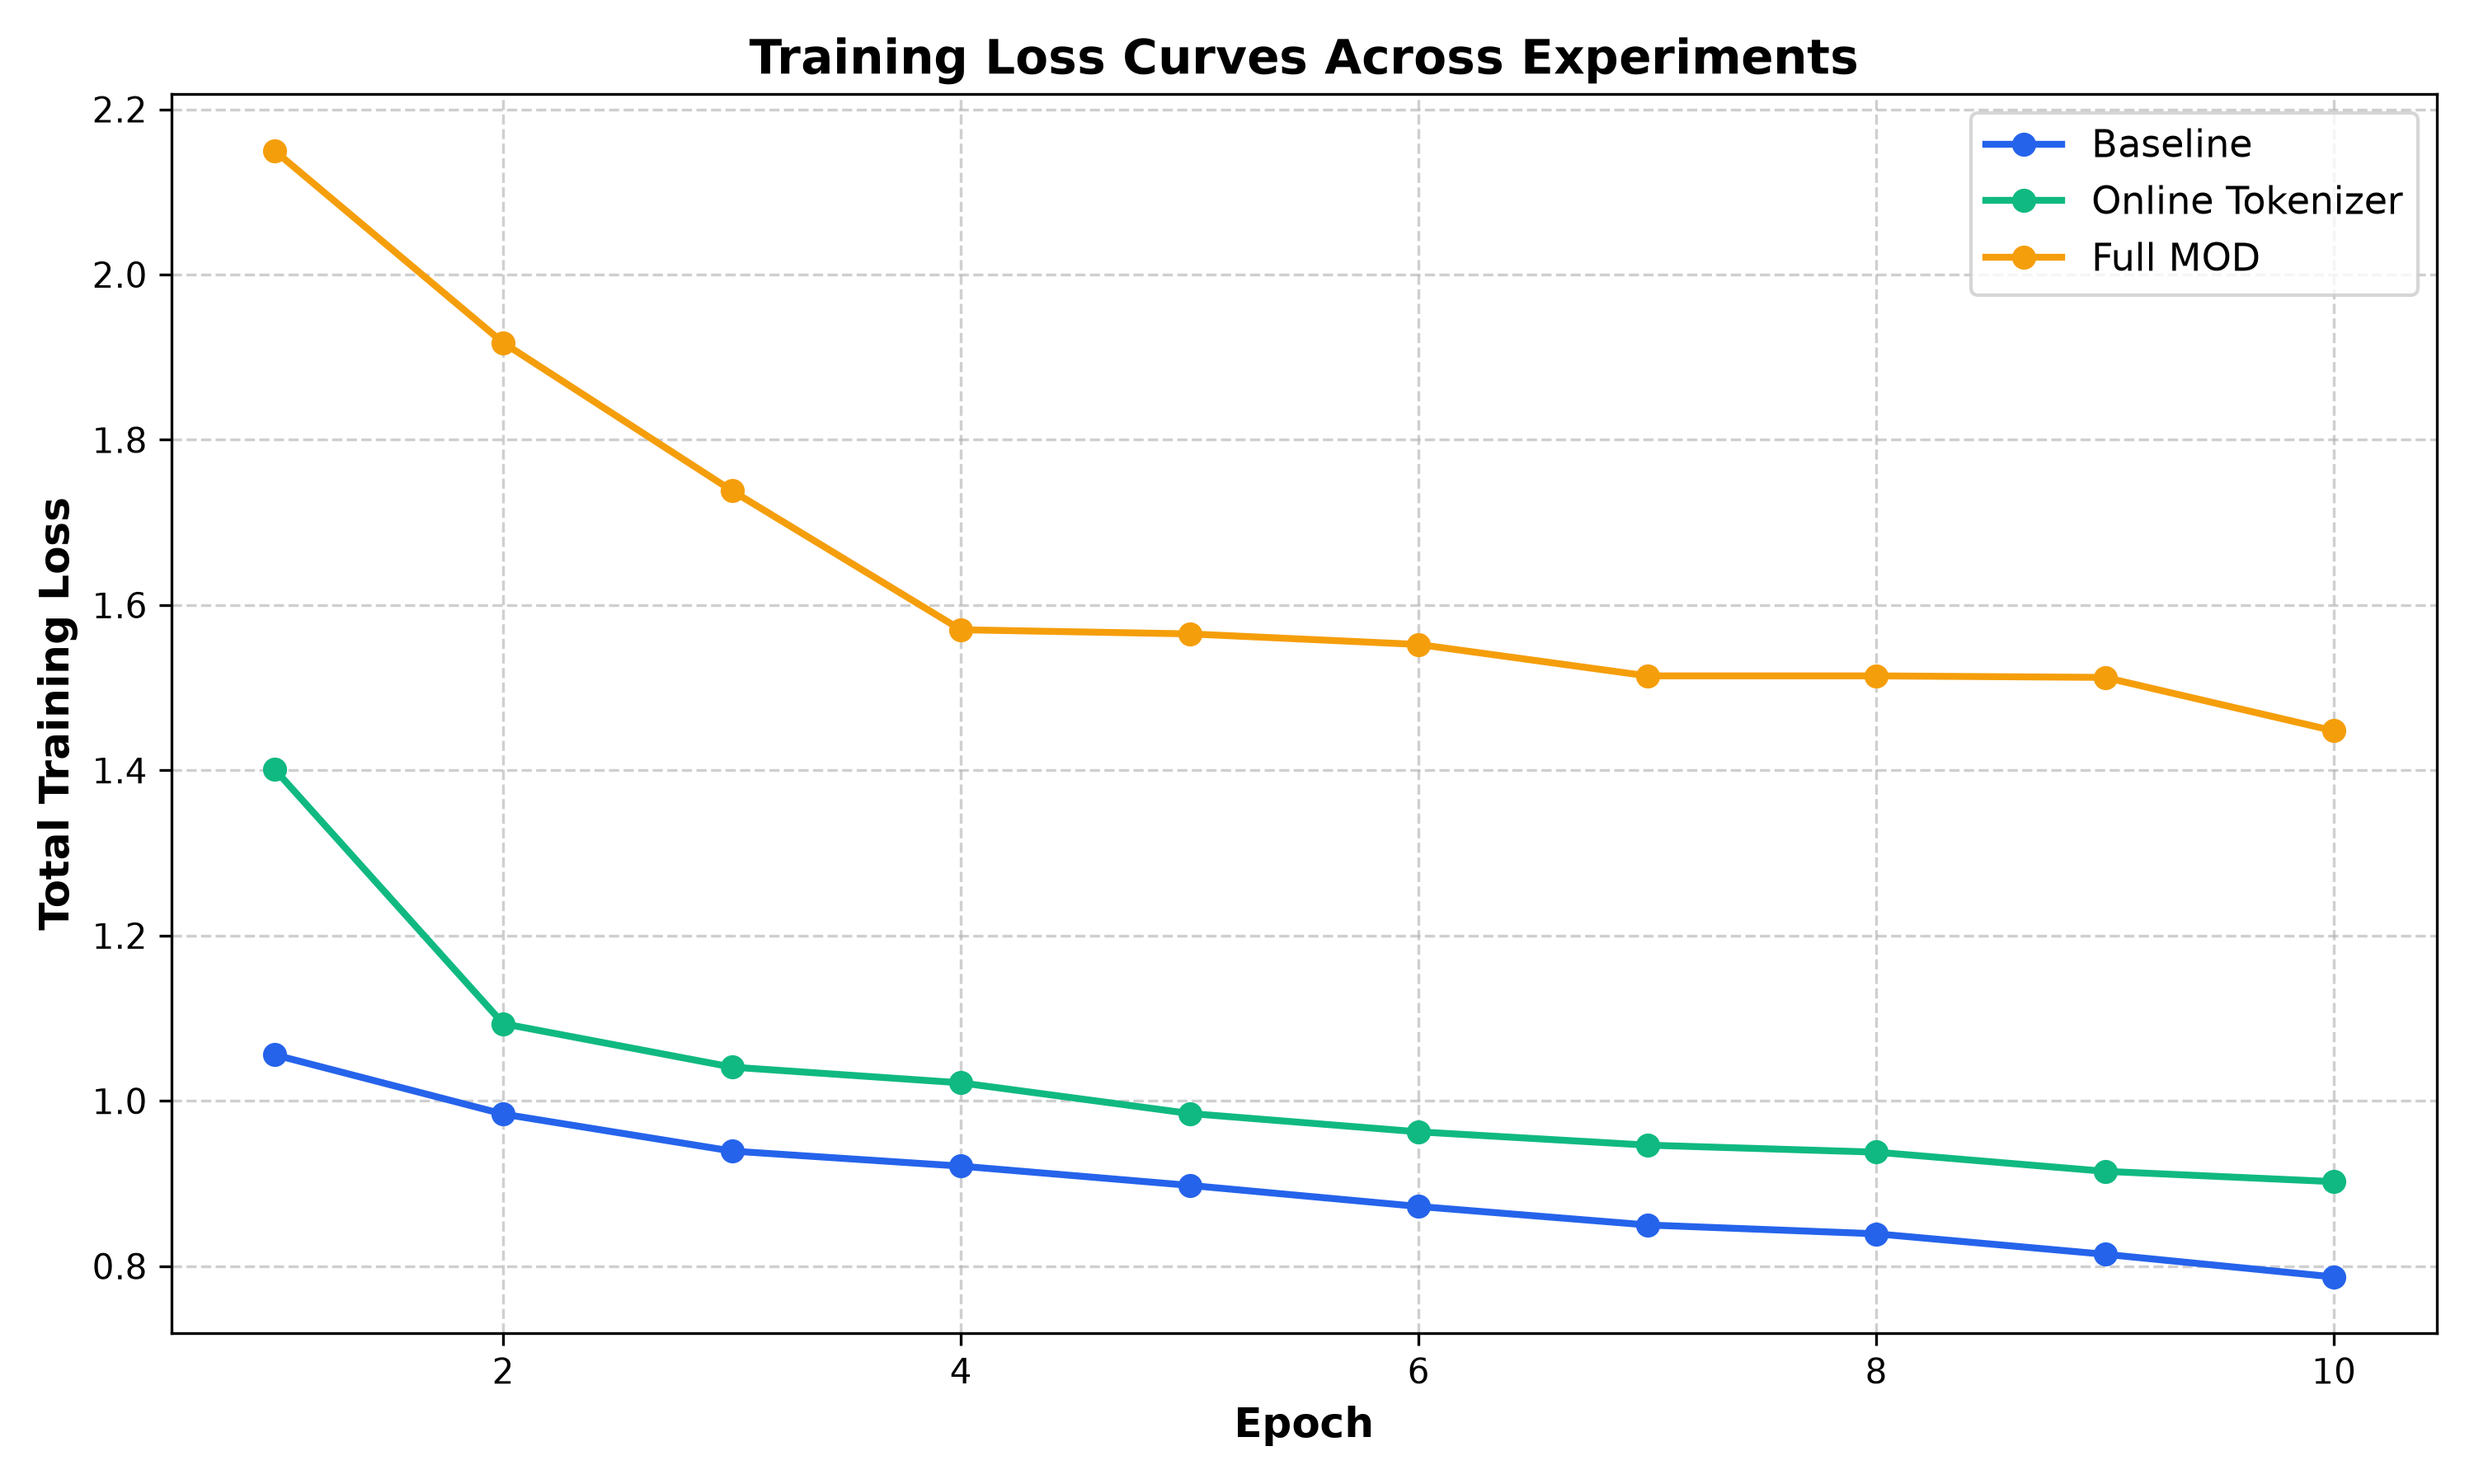
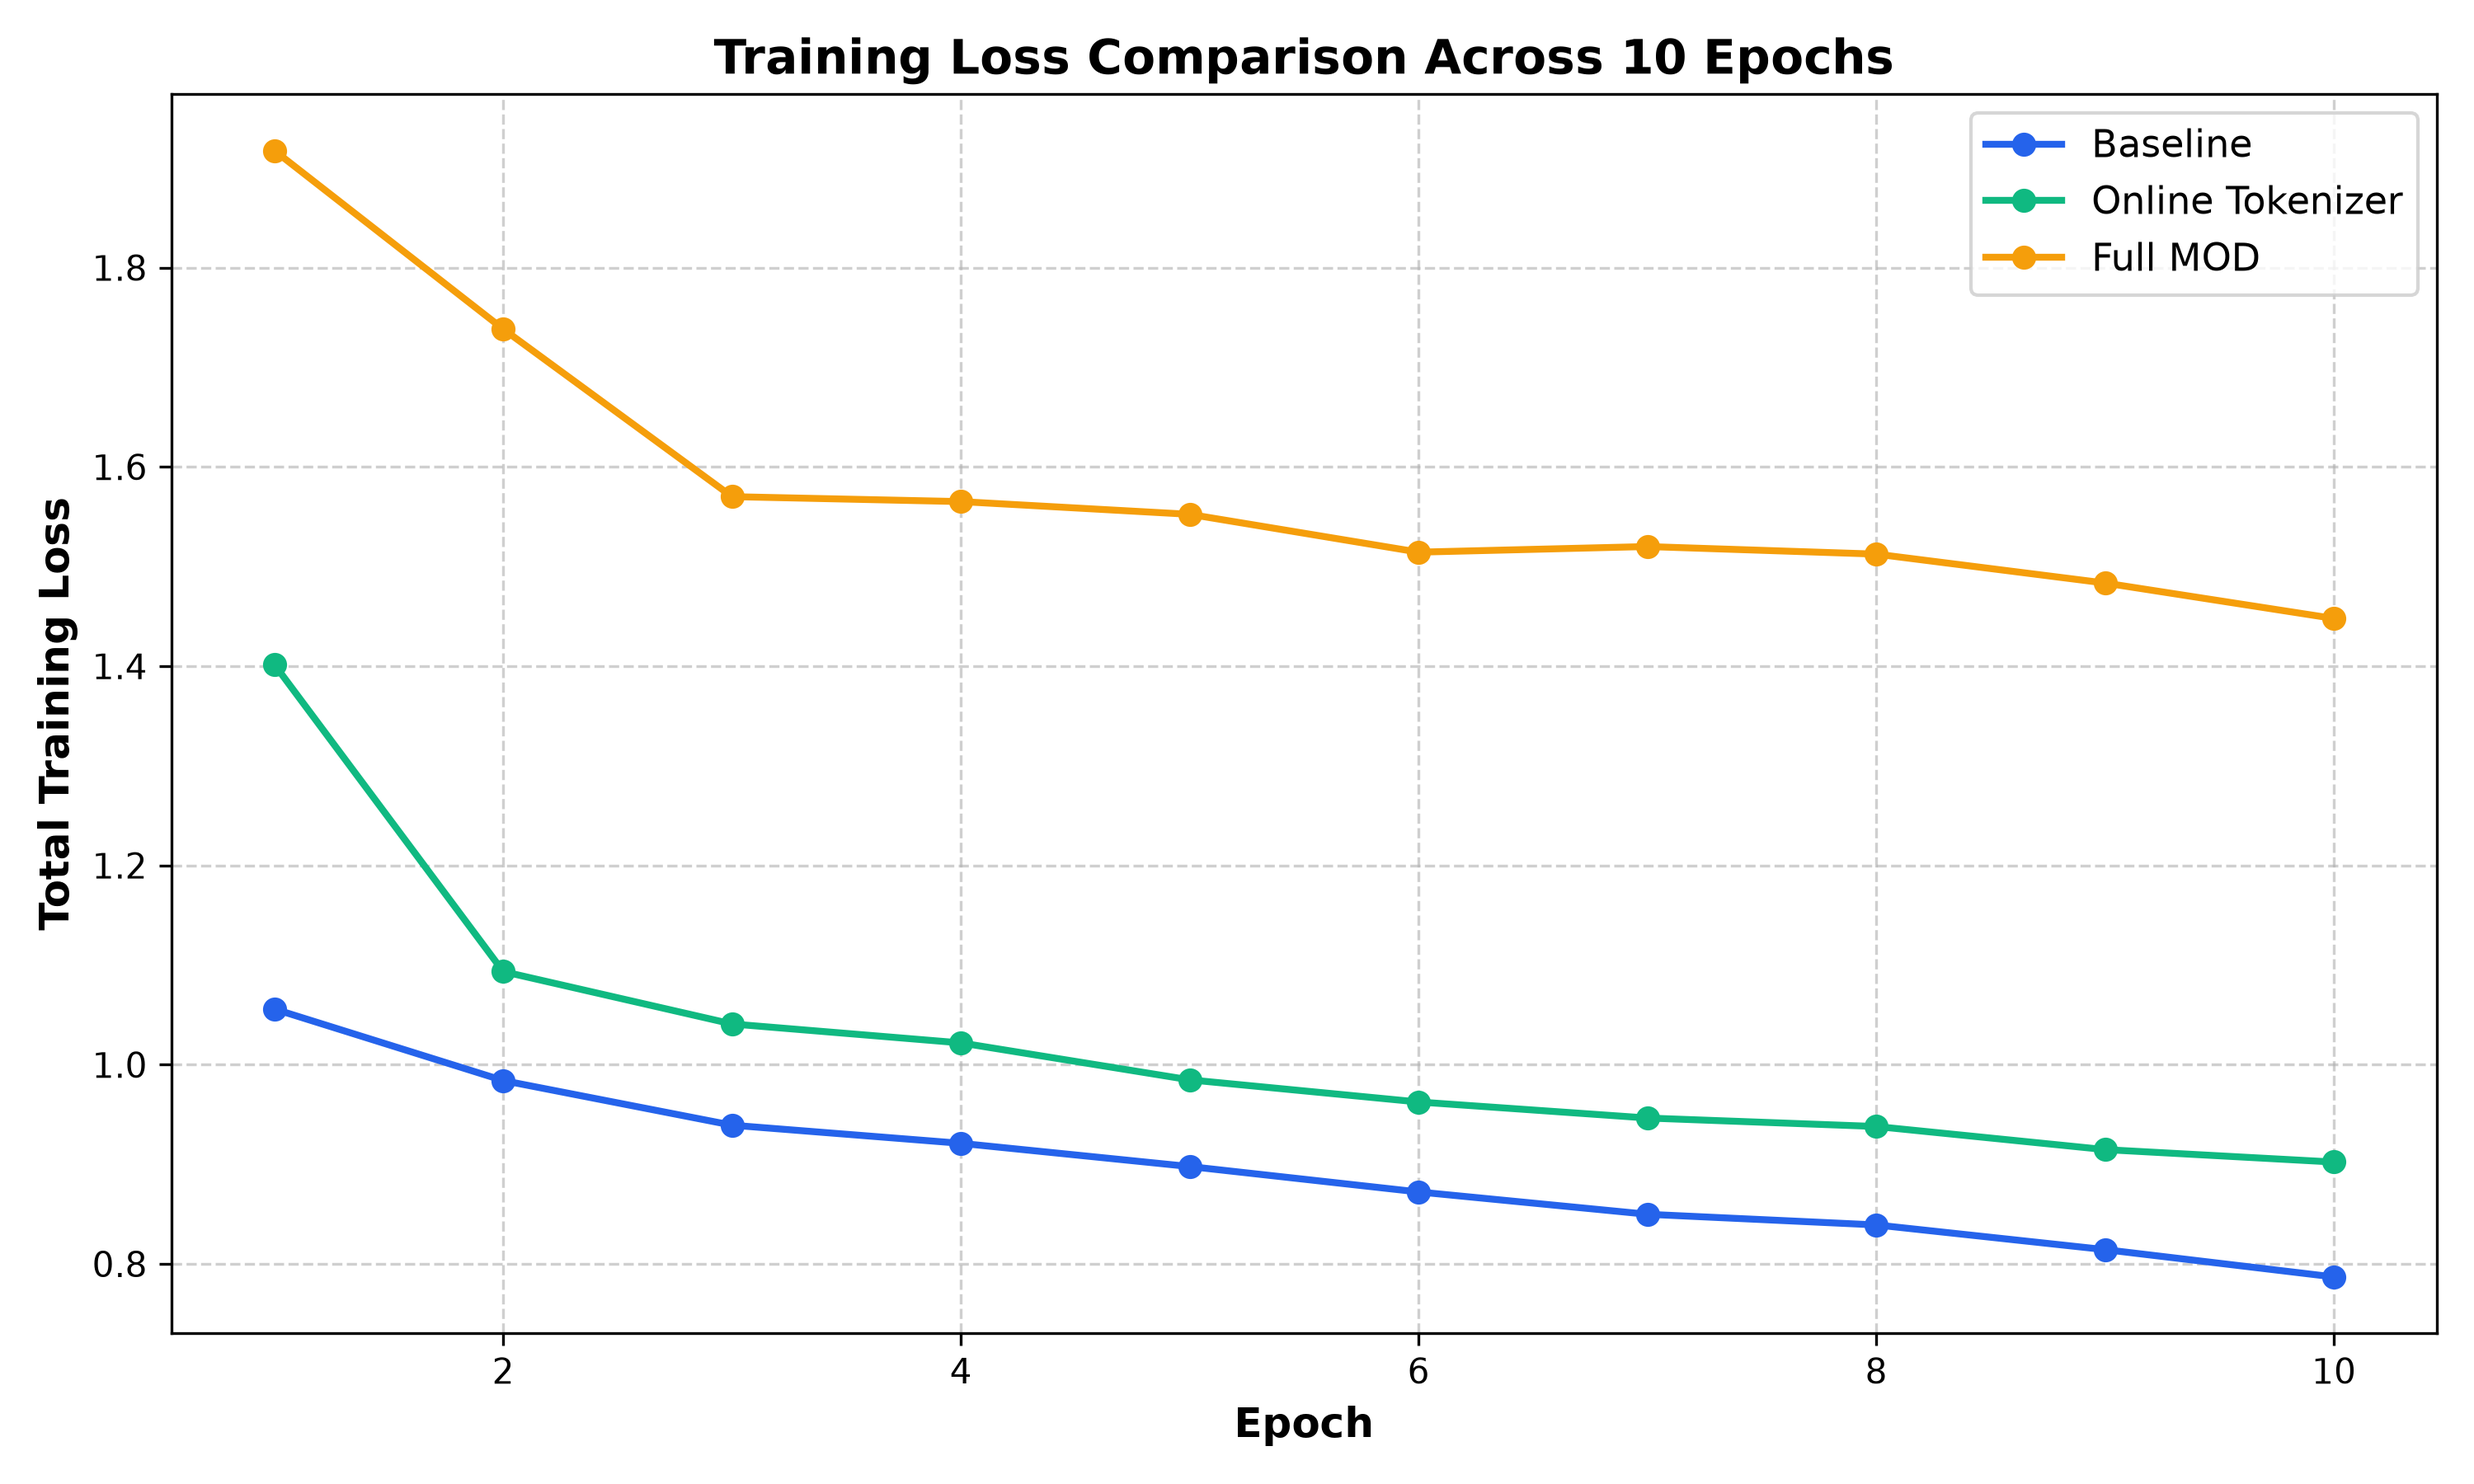
Correct MOD training history with exact experimental values and regenerate loss figures

diff --git a/src/visualization/plotter.py b/src/visualization/plotter.py
@@ -17,7 +17,7 @@ def plot_loss_curves(
     colors = {
         "Baseline": "#2563EB",
         "Online Tokenizer": "#10B981",
-        "Full MOD": "#F59E0B",
+        "Full MOD": "#DC2626",
         "Dense Predictor": "#8B5CF6",
     }
     
@@ -40,6 +40,38 @@ def plot_loss_curves(
     print(f"Saved: {out}")
 
 
+def plot_mod_loss_breakdown(
+    epochs: List[int],
+    total_loss: List[float],
+    seg_loss: List[float],
+    ot_loss: List[float],
+    dp_loss: List[float],
+    mod_loss: List[float],
+    output_path: Union[str, Path] = "results/figures/mod_loss_breakdown.png",
+):
+    """Plots fine-grained MOD loss components across epochs."""
+    plt.figure(figsize=(10, 6), dpi=300)
+    plt.plot(epochs, total_loss, marker='o', linewidth=2.5, color='#DC2626', label='Total Loss (Seg + MOD)')
+    plt.plot(epochs, seg_loss,   marker='s', linewidth=2.0, color='#2563EB', label='Segmentation Loss (DiceFocal)')
+    plt.plot(epochs, mod_loss,   marker='^', linewidth=2.0, color='#D97706', label='MOD Loss (OT + DP)')
+    plt.plot(epochs, dp_loss,    marker='d', linewidth=1.8, linestyle='--', color='#7C3AED', label='Dense Predictor Loss')
+    plt.plot(epochs, ot_loss,    marker='x', linewidth=1.8, linestyle=':', color='#059669', label='Online Tokenizer Loss')
+
+    plt.xlabel('Epoch', fontsize=12, fontweight='bold')
+    plt.ylabel('Loss Value', fontsize=12, fontweight='bold')
+    plt.title('MOD 10-Epoch Multi-Objective Loss Trajectory', fontsize=14, fontweight='bold')
+    plt.grid(True, linestyle='--', alpha=0.6)
+    plt.xticks(epochs)
+    plt.legend(fontsize=10, loc='upper right')
+    plt.tight_layout()
+
+    out = Path(output_path)
+    out.parent.mkdir(parents=True, exist_ok=True)
+    plt.savefig(out, dpi=300)
+    plt.close()
+    print(f"Saved: {out}")
+
+
 def plot_dice_comparison(
     models: List[str],
     mean_dice: List[float],
@@ -47,7 +79,7 @@ def plot_dice_comparison(
 ):
     """Plots Mean Dice comparison bar chart."""
     plt.figure(figsize=(8, 5), dpi=300)
-    colors = ["#2563EB", "#10B981", "#F59E0B"][:len(models)]
+    colors = ["#2563EB", "#10B981", "#DC2626"][:len(models)]
     bars = plt.bar(models, mean_dice, color=colors, width=0.45, edgecolor="black", linewidth=1.2)
     
     for bar in bars:
@@ -75,7 +107,7 @@ def plot_hd95_comparison(
 ):
     """Plots Mean HD95 boundary distance comparison (lower is better)."""
     plt.figure(figsize=(8, 5), dpi=300)
-    colors = ["#2563EB", "#10B981", "#F59E0B"][:len(models)]
+    colors = ["#2563EB", "#10B981", "#DC2626"][:len(models)]
     bars = plt.bar(models, mean_hd95, color=colors, width=0.45, edgecolor="black", linewidth=1.2)
     
     for bar in bars:

diff --git a/src/visualization/__init__.py b/src/visualization/__init__.py
@@ -1,5 +1,6 @@
 from src.visualization.plotter import (
     plot_loss_curves,
+    plot_mod_loss_breakdown,
     plot_dice_comparison,
     plot_hd95_comparison,
     plot_region_dice_comparison,
@@ -7,6 +8,7 @@ from src.visualization.plotter import (
 
 __all__ = [
     "plot_loss_curves",
+    "plot_mod_loss_breakdown",
     "plot_dice_comparison",
     "plot_hd95_comparison",
     "plot_region_dice_comparison",
